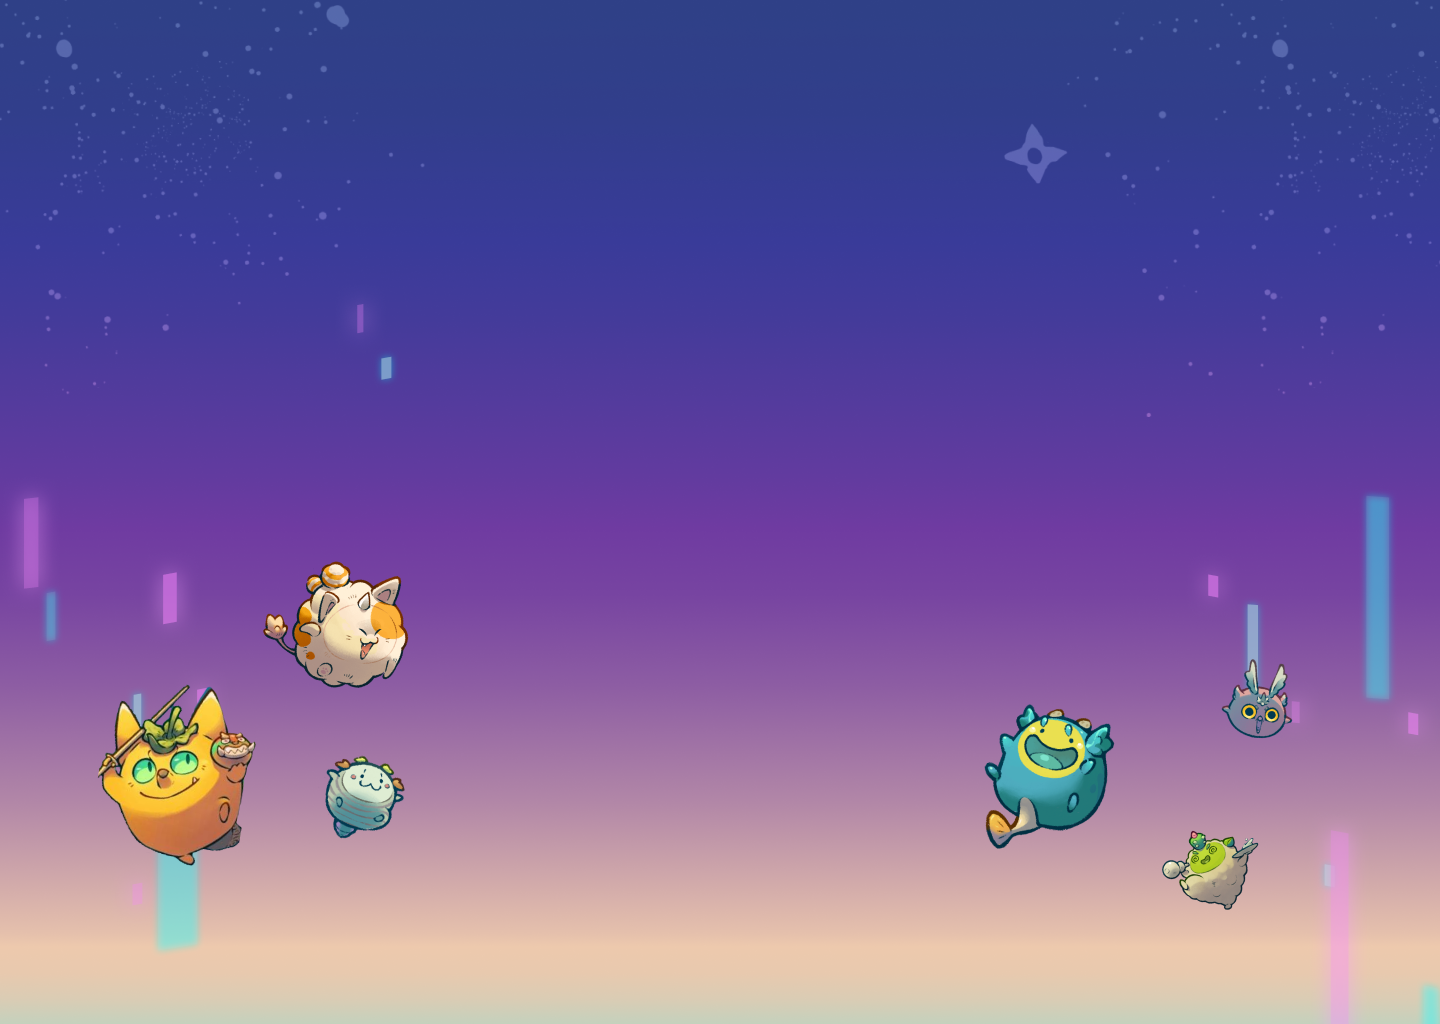
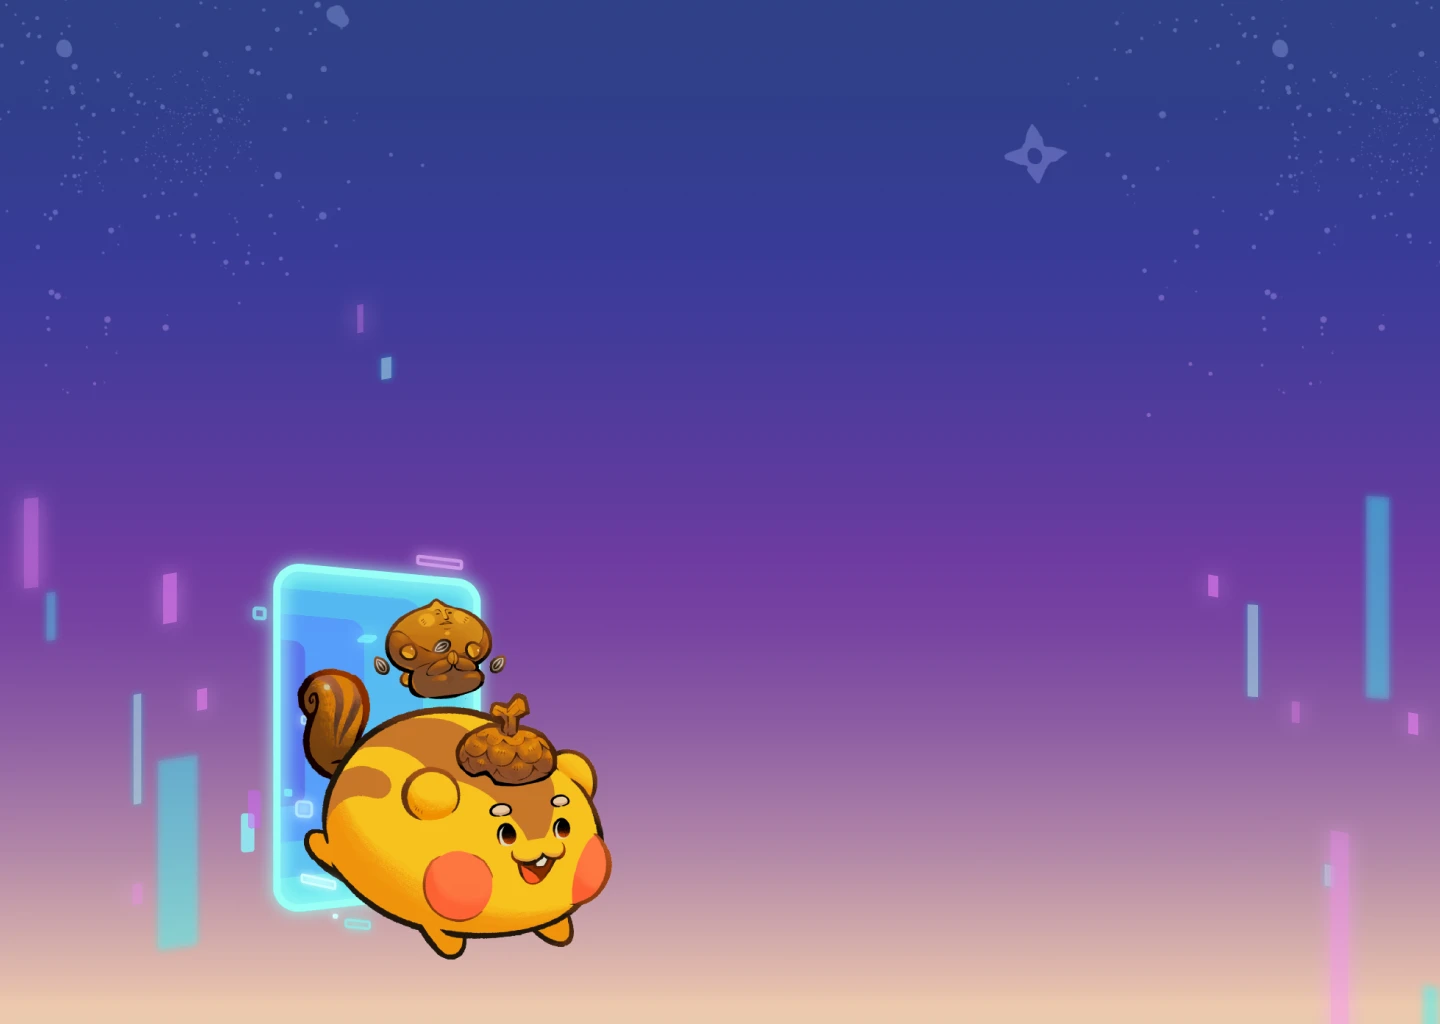
change background, add axie tripp

diff --git a/src/app/form/page.tsx b/src/app/form/page.tsx
@@ -111,13 +111,20 @@ export default function AxieForm() {
   }
 
   return (
-    <div className="absolute inset-0 flex overflow-y-scroll bg-mobile from-[#4bd4fe] to-[#80d458] bg-cover bg-center bg-no-repeat md:overflow-clip md:bg-main">
+    <div className="absolute inset-0 flex overflow-y-scroll bg-mobile_plain from-[#4bd4fe] to-[#80d458] bg-cover bg-center bg-no-repeat md:overflow-clip md:bg-main_plain">
       {/* main content */}
       <div className="relative flex h-fit w-full flex-col items-center justify-center px-10 md:h-full md:pb-[5dvh]">
         <div className="flex flex-col gap-10 self-center md:flex-row md:p-12">
           {/* main title */}
-          <div className="flex flex-col px-4 text-center md:w-1/2 md:px-10 md:text-left">
+          <div className="relative flex flex-col px-4 text-center md:w-1/2 md:px-10 md:text-left">
             {/* back arrow */}
+            <Image
+              alt="axie tripp"
+              width={500}
+              height={500}
+              src={"/Axie_Tripp.webp"}
+              className="absolute -bottom-40 left-40 hidden size-64 md:block 2xl:-bottom-64 2xl:left-40 2xl:size-96"
+            />
             <Link
               href={"/"}
               className="absolute left-5 top-5 z-10 cursor-pointer duration-500 hover:scale-110 md:relative md:left-0 md:top-0"
@@ -267,13 +274,22 @@ export default function AxieForm() {
         </div>
 
         {/* socials */}
-        <div className="flex h-fit w-full flex-row justify-center gap-4 pb-[5dvh] pt-6 md:hidden md:pb-0">
-          <Link target="_blank" href={URL_DISCORD}>
-            <FaDiscord size={24} />
-          </Link>
-          <Link target="_blank" href={URL_TWITTER}>
-            <FaXTwitter size={20} />
-          </Link>
+        <div className="flex h-fit w-full flex-col items-center">
+          <div className="flex h-fit w-full flex-row justify-center gap-4 py-10 md:hidden md:pb-0">
+            <Link target="_blank" href={URL_DISCORD}>
+              <FaDiscord size={24} />
+            </Link>
+            <Link target="_blank" href={URL_TWITTER}>
+              <FaXTwitter size={20} />
+            </Link>
+          </div>
+          <Image
+            alt="axie tripp"
+            width={500}
+            height={500}
+            src={"/Axie_Tripp.webp"}
+            className="block size-64 md:hidden"
+          />
         </div>
       </div>
       {/* <BottomBar /> */}

diff --git a/src/app/notice/page.tsx b/src/app/notice/page.tsx
@@ -13,7 +13,7 @@ import { URL_DISCORD, URL_TWITTER, URL_YOUTUBE_METAPALS } from "../urls"
 
 export default function AxieForm() {
   return (
-    <div className="absolute inset-0 flex items-center overflow-y-scroll bg-mobile from-[#4bd4fe] to-[#80d458] bg-cover bg-center bg-no-repeat md:overflow-clip md:bg-main">
+    <div className="absolute inset-0 flex items-center overflow-y-scroll bg-mobile_plain from-[#4bd4fe] to-[#80d458] bg-cover bg-center bg-no-repeat md:overflow-clip md:bg-main_plain">
       {/* back arrow */}
       <Link
         href={"/form"}
@@ -24,7 +24,14 @@ export default function AxieForm() {
 
       {/* main content */}
       <div className="relative flex h-fit w-full flex-col items-center justify-center px-10 pb-[5dvh] md:h-full md:pb-[10dvh]">
-        <div className="flex flex-col gap-10 self-center md:flex-row md:p-12">
+        <div className="relative flex flex-col gap-10 self-center md:flex-row md:p-12">
+          <Image
+            alt="axie tripp"
+            width={500}
+            height={500}
+            src={"/Axie_Tripp.webp"}
+            className="absolute -bottom-80 size-64 md:-bottom-24 md:left-0 2xl:-bottom-40 2xl:-left-40 2xl:size-96"
+          />
           {/* main title */}
           <div className="flex flex-col text-center md:w-[32rem]">
             <h1 className="px-4 py-8 text-4xl font-bold md:px-0">
@@ -53,7 +60,7 @@ export default function AxieForm() {
                 Curious to know more? Watch our trailer here!
               </p>
               <Button theme={"axie_white"} externalLink={URL_YOUTUBE_METAPALS}>
-                <div className="flex flex-row items-center px-2">
+                <div className="flex flex-row items-center px-20 md:px-2">
                   <FaYoutube size={20} />
                   <p className="px-2 py-1 font-bold">Watch Trailer</p>
                 </div>
